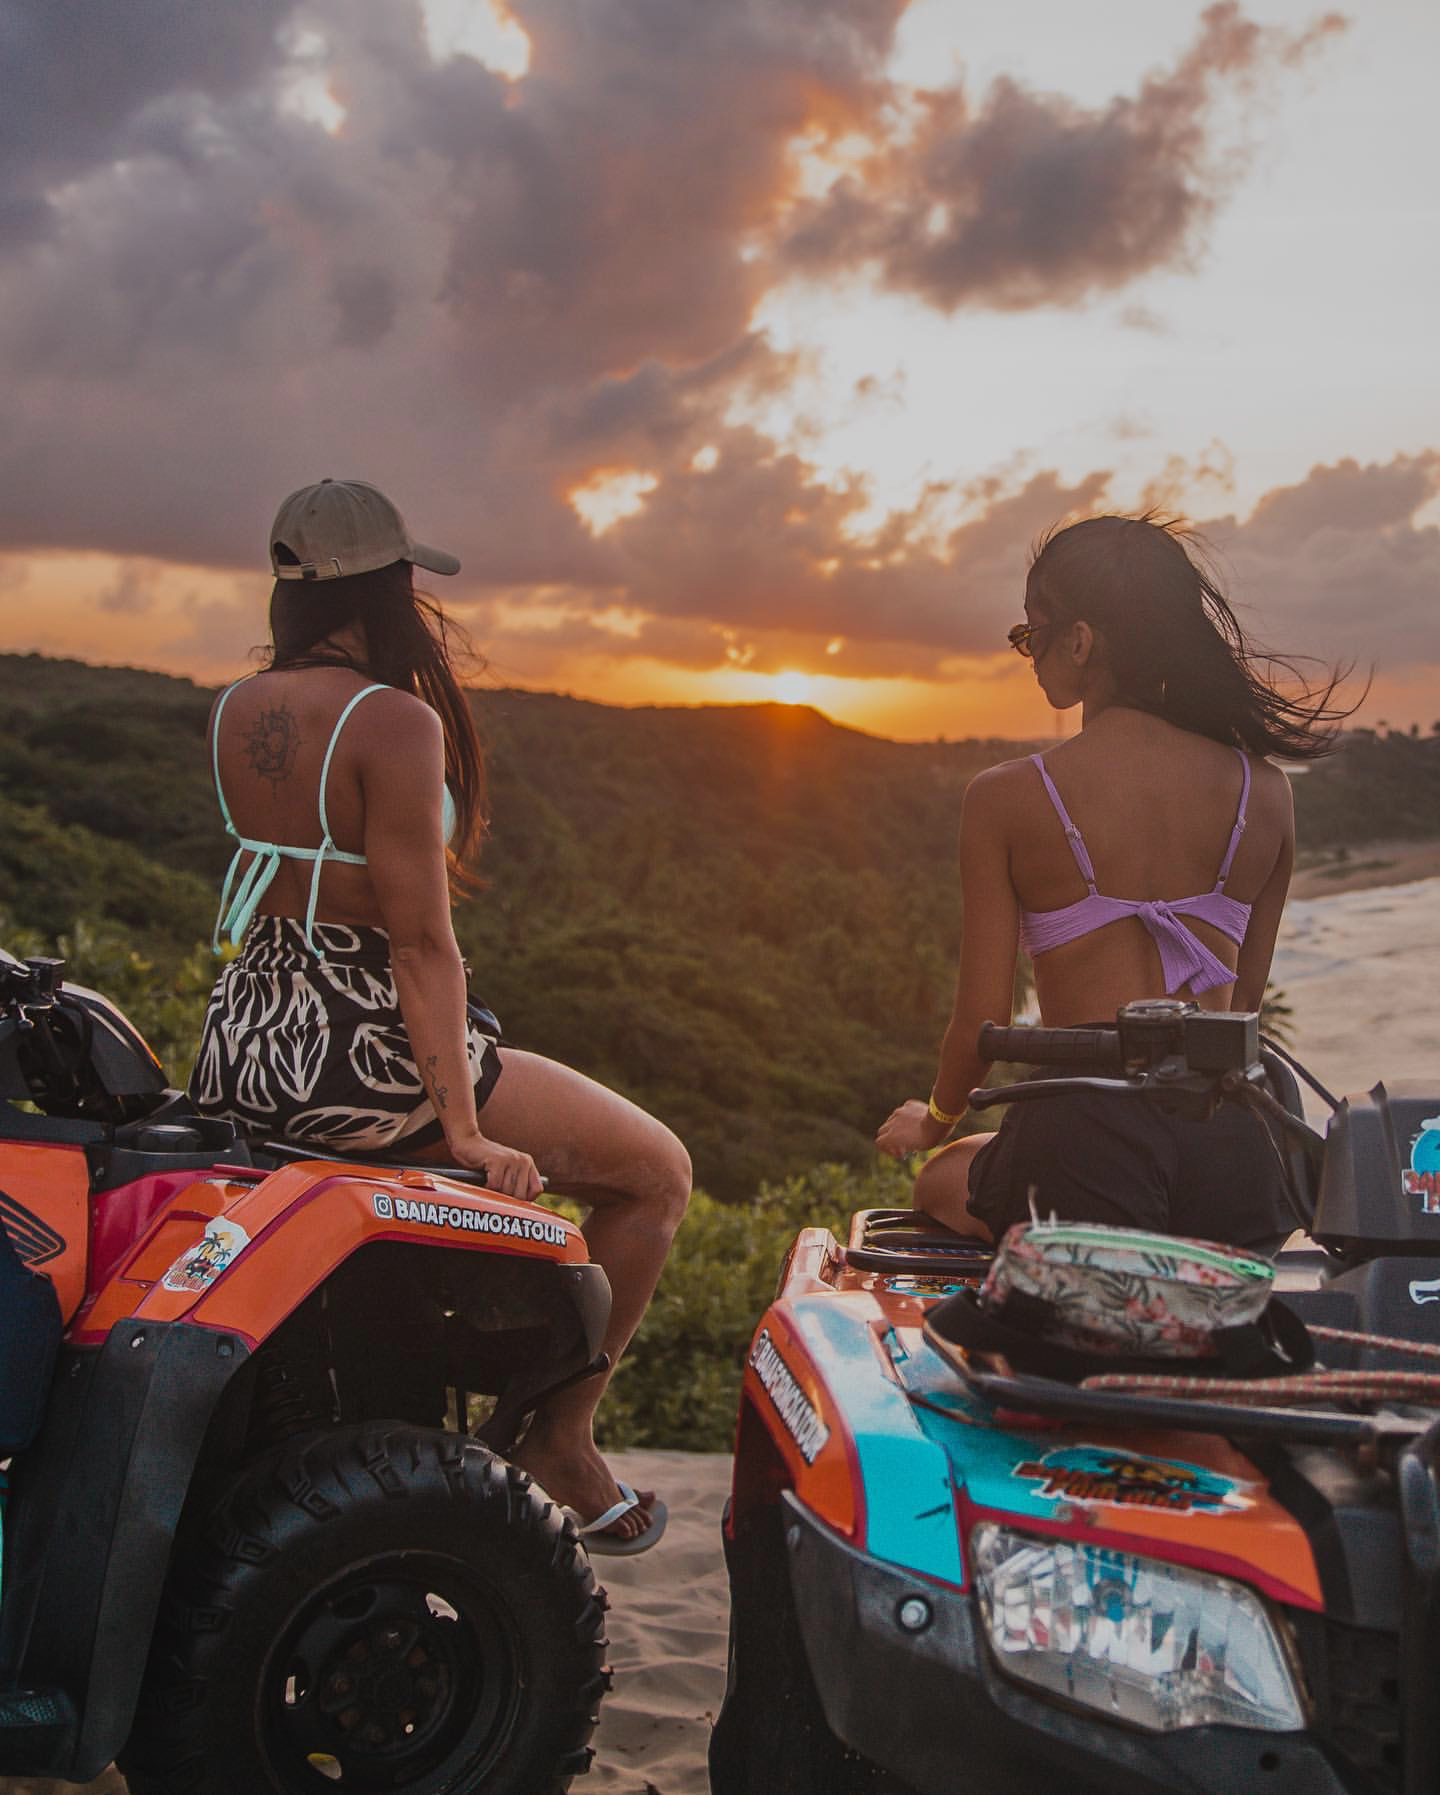
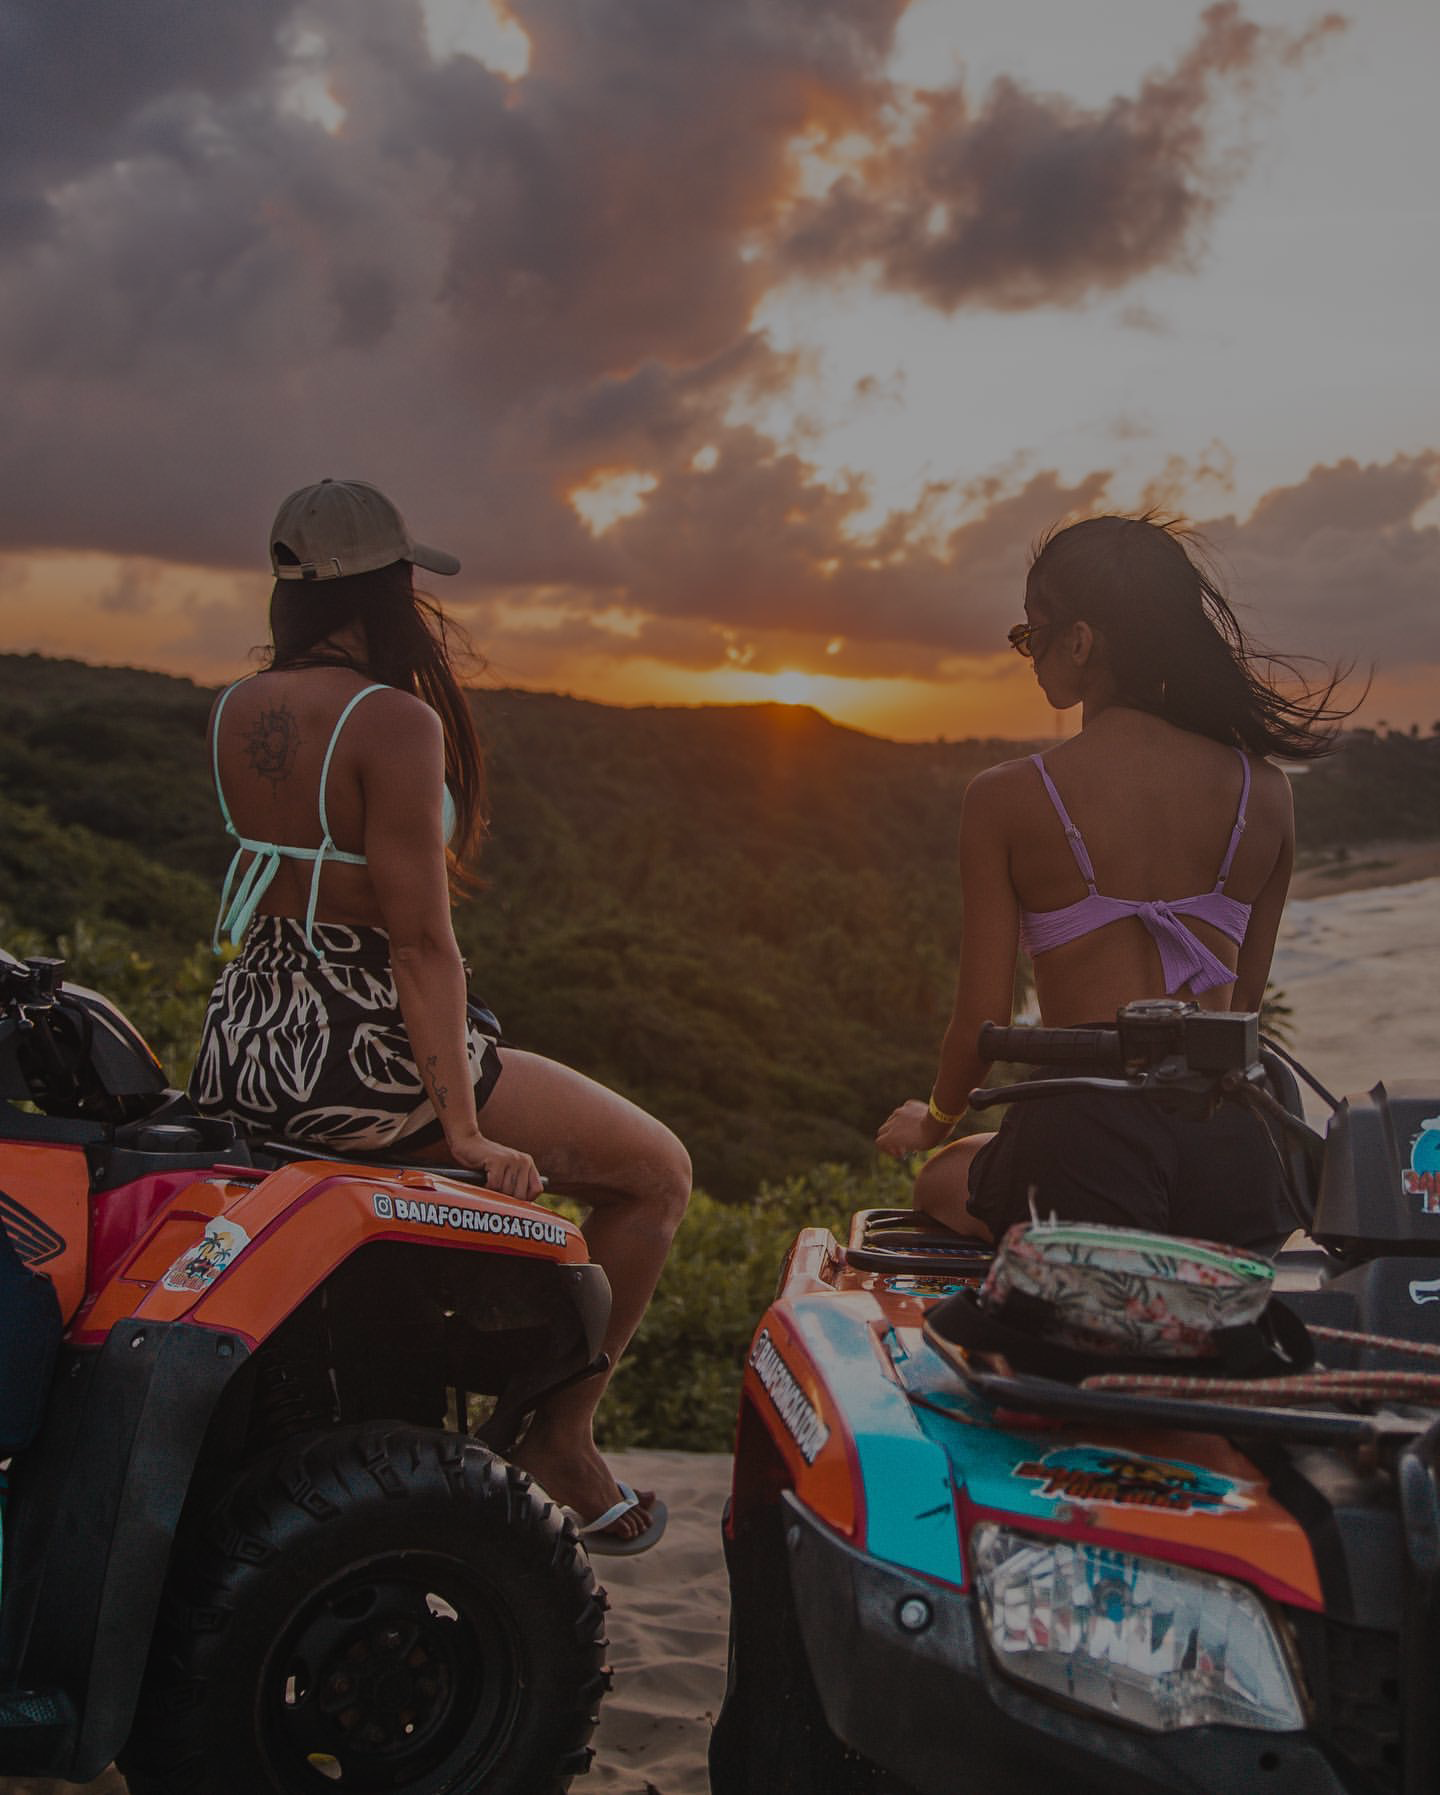
Refatoração da home

diff --git a/src/components/Faixa.tsx b/src/components/Faixa.tsx
@@ -1,0 +1,42 @@
+import { FaWhatsapp } from "react-icons/fa";
+
+export function Faixa(){
+    return(
+        <>
+            <div className="flex justify-center items-center">
+                <div className="max-w-[1200px] bg-white absolute p-5 rounded-lg shadow-md">
+                    <div className="grid grid-cols-4 ">
+                        <div className="flex items-center gap-4">
+                            <FaWhatsapp className="text-3xl"/>
+                            <div>
+                                <h1 className="font-semibold">Atendimento humanizado</h1>
+                                <p>Fale conosco diariamente das 08:00 as 22:00</p>
+                            </div>
+                        </div>
+                        <div className="flex items-center gap-4">
+                            <FaWhatsapp className="text-3xl"/>
+                            <div>
+                                <h1 className="font-semibold">Atendimento humanizado</h1>
+                                <p>Fale conosco diariamente das 08:00 as 22:00</p>
+                            </div>
+                        </div>
+                        <div className="flex items-center gap-4">
+                            <FaWhatsapp className="text-3xl"/>
+                            <div>
+                                <h1 className="font-semibold">Atendimento humanizado</h1>
+                                <p>Fale conosco diariamente das 08:00 as 22:00</p>
+                            </div>
+                        </div>
+                        <div className="flex items-center gap-4">
+                            <FaWhatsapp className="text-3xl"/>
+                            <div>
+                                <h1 className="font-semibold">Atendimento humanizado</h1>
+                                <p>Fale conosco diariamente das 08:00 as 22:00</p>
+                            </div>
+                        </div>
+                    </div>
+                </div>
+            </div>
+        </>
+    )
+}

diff --git a/src/components/Sobre.tsx b/src/components/Sobre.tsx
@@ -3,12 +3,12 @@ import { Button } from "./ui/button";
 
 export function Sobre() {
     return (
-        <div className="px-5 py-10 flex justify-center" id="sobre">
+        <div className="px-5 py-32 flex justify-center" id="sobre">
             <div className="w-[1100px]">
                 <div className="md:grid grid-cols-2 items-center w-full">
                     <div>
-                        <h1 className="font-bold text-3xl mb-2">+ de 2130 Passeios já realizados</h1>
-                        <p className="font-medium mb-2">Lorem ipsum dolor sit amet consectetur, adipisicing elit. Recusandae quos veritatis quo consequuntur magni iste repellendus cupiditate officia enim dicta officiis numquam laborum itaque laudantium, cum assumenda vitae sint culpa. Lorem, ipsum dolor sit amet consectetur adipisicing elit. Quia nostrum a, odit eveniet rerum quas? Blanditiis, debitis impedit fuga voluptas mollitia optio voluptatum. Necessitatibus aperiam suscipit eos obcaecati, animi quae.</p>
+                        <h1 className="font-bold text-3xl mb-2 text-slate-800">+ de 2130 Passeios já realizados</h1>
+                        <p className="font-medium mb-2 text-slate-500">Lorem ipsum dolor sit amet consectetur, adipisicing elit. Recusandae quos veritatis quo consequuntur magni iste repellendus cupiditate officia enim dicta officiis numquam laborum itaque laudantium, cum assumenda vitae sint culpa. Lorem, ipsum dolor sit amet consectetur adipisicing elit. Quia nostrum a, odit eveniet rerum quas? Blanditiis, debitis impedit fuga voluptas mollitia optio voluptatum. Necessitatibus aperiam suscipit eos obcaecati, animi quae.</p>
                         <Button className="w-full flex justify-center">Clique para conhecer a gente</Button>
                     </div>
                     <div className="flex mt-10 md:justify-end justify-center">

diff --git a/src/components/Hero.tsx b/src/components/Hero.tsx
@@ -5,12 +5,12 @@ import { Button } from "./ui/button";
 export function Hero() {
     return (
         <div id="home">
-            <div className="w-full h-screen bg-[url('/bgphonev2.png')] lg:bg-[url('/site.jpg')] bg-cover pt-52 flex px-5 pb-10 bg-center justify-center">
+            <div className="w-full h-screen bg-[url('/bgphonev2.png')] lg:bg-[url('/site.png')] bg-cover pt-52 flex px-5 pb-10 bg-center justify-center">
                 <div className="max-w-[1100px]">
                     <div className="">
                         <Badge variant="default" className="mb-2 lg:text-base">Empresa especializa em turismo</Badge>
                         <h1 className="uppercase text-white font-bold text-4xl lg:text-6xl">Vem viver essa<br />experiência de maneira<br />única!</h1>
-                        <p className="font-medium text-white lg:text-xl">Conheça Baía Formosa de uma maneira única, sobre quatro rodas,<br /> onde as paisagens se tornam seu caminho.</p>
+                        <p className="font-normal text-white lg:text-xl">Aproveite o melhor da natureza, da aventura e da liberdade em um passeio imperdível,<br/> onde as paisagens se tornam seus caminhos.</p>
                         <div className="mt-4 flex gap-2">
                             <Button variant='default' asChild>
                                 <Link to='https://api.whatsapp.com/send/?phone=5584994511101&text=Ol%C3%A1%21+Gostaria+de+saber+mais+informa%C3%A7%C3%B5es+sobre+o+passeio+de+Quadriciclo+%EF%BF%BD%EF%BF%BD&type=phone_number&app_absent=0' target="_blank">Realizar Reserva</Link>

diff --git a/src/components/Duvidas.tsx b/src/components/Duvidas.tsx
@@ -12,7 +12,7 @@ export function Duvidas() {
     return (
         <div className="px-5 py-10 flex justify-center" id="duvidas">
             <div className="w-[1100px]">
-                <h1 className="text-2xl font-bold mb-10">Algumas das principais dúvidas</h1>
+                <h1 className="text-2xl font-bold mb-10 text-slate-800">Algumas das principais dúvidas</h1>
 
                 <Accordion type="single" collapsible className="flex flex-col gap-4">
                     <AccordionItem value="Dúvida 1">
@@ -84,7 +84,7 @@ export function Duvidas() {
                 </Accordion>
 
                 <div className="flex flex-col items-center mt-10">
-                    <h1 className="text-xl font-bold mb-3">Ainda está com dúvidas?</h1>
+                    <h1 className="text-xl font-bold mb-3 text-slate-800">Ainda está com dúvidas?</h1>
                     <Button className="px-8 flex justify-center" asChild>
                         <Link to='https://api.whatsapp.com/send/?phone=5584994511101&text=Ol%C3%A1%21+Gostaria+de+saber+mais+informa%C3%A7%C3%B5es+sobre+o+passeio+de+Quadriciclo+%EF%BF%BD%EF%BF%BD&type=phone_number&app_absent=0' target="_blank">Fale com a nossa equipe</Link>
                     </Button>

diff --git a/src/components/Pacotes.tsx b/src/components/Pacotes.tsx
@@ -1,0 +1,24 @@
+
+import combo1 from '@/assets/combo1.jpg'
+export function Pacotes() {
+    return (
+        <>
+            <div className="flex justify-center px-5 py-10">
+                <div className="max-w-[1100px]">
+                    <div className="">
+                        <h1 className="font-bold text-4xl text-center text-slate-800">Nossos pacotes</h1>
+                        <p className='text-center font-medium mb-10 text-slate-500'>Conheça agora todos os pacotes que a nossa empres oferece</p>
+                        <div className="w-[300px]rounded-xl overflow-hidden shadow">
+                            <div className=''>
+                                <img src={combo1} alt='passeio completo' height='40px'/> 
+                            </div>
+                            <div>
+                                <h1>a</h1>
+                            </div>
+                        </div>
+                    </div>
+                </div>
+            </div>
+        </>
+    )
+}

diff --git a/src/components/FeedBack.tsx b/src/components/FeedBack.tsx
@@ -14,8 +14,8 @@ export function FeedBack() {
         <div className="bg-slate-100 px-5 py-10 w-full flex justify-center">
             <div className="max-w-[1100px] flex justify-center">
                 <div className="flex flex-col items-center justify-center">
-                    <h1 className="font-bold text-4xl text-center">O que nossos clientes dizem:</h1>
-                    <p className="text-center mb-10 text-primary flex items-center gap-2 justify-center">Arraste pro lado para ver mais <FaArrowRight /></p>
+                    <h1 className="font-bold text-4xl text-center text-slate-800">O que nossos clientes dizem:</h1>
+                    <p className="text-center mb-10 text-slate-500 flex items-center gap-2 justify-center">Arraste pro lado para ver mais <FaArrowRight /></p>
                     <div className="flex justify-center">
                         <Carousel className="w-[300px] md:hidden">
                             <CarouselContent>

diff --git a/src/pages/Home.tsx b/src/pages/Home.tsx
@@ -4,6 +4,7 @@ import { Footer } from "@/components/Footer";
 import { Hero } from "@/components/Hero";
 import { NavBar } from "@/components/NavBar";
 import { NavMobile } from "@/components/NavMobile";
+
 import { Sobre } from "@/components/Sobre";
 
 
@@ -14,6 +15,7 @@ export function Home() {
             <NavBar />
             <Hero />
             <Sobre />
+         
             <FeedBack/>
             <Duvidas/>
             <Footer/>
